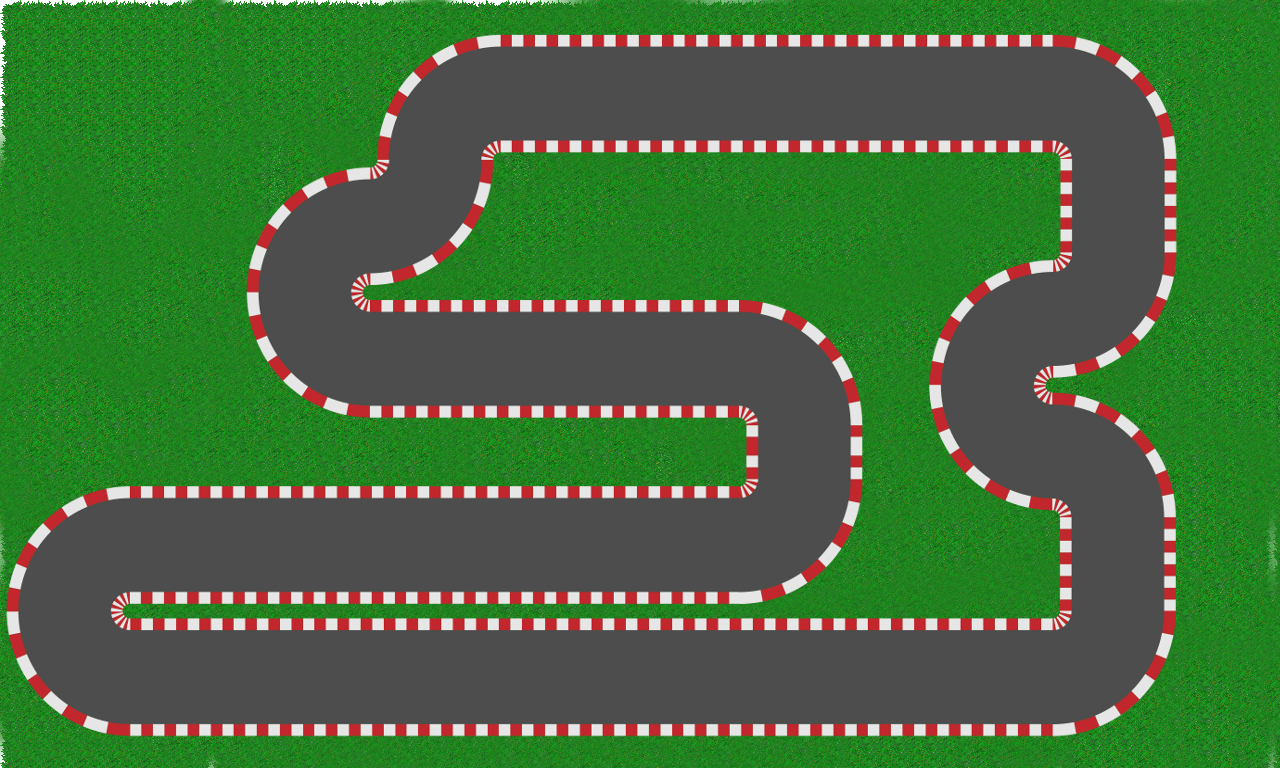
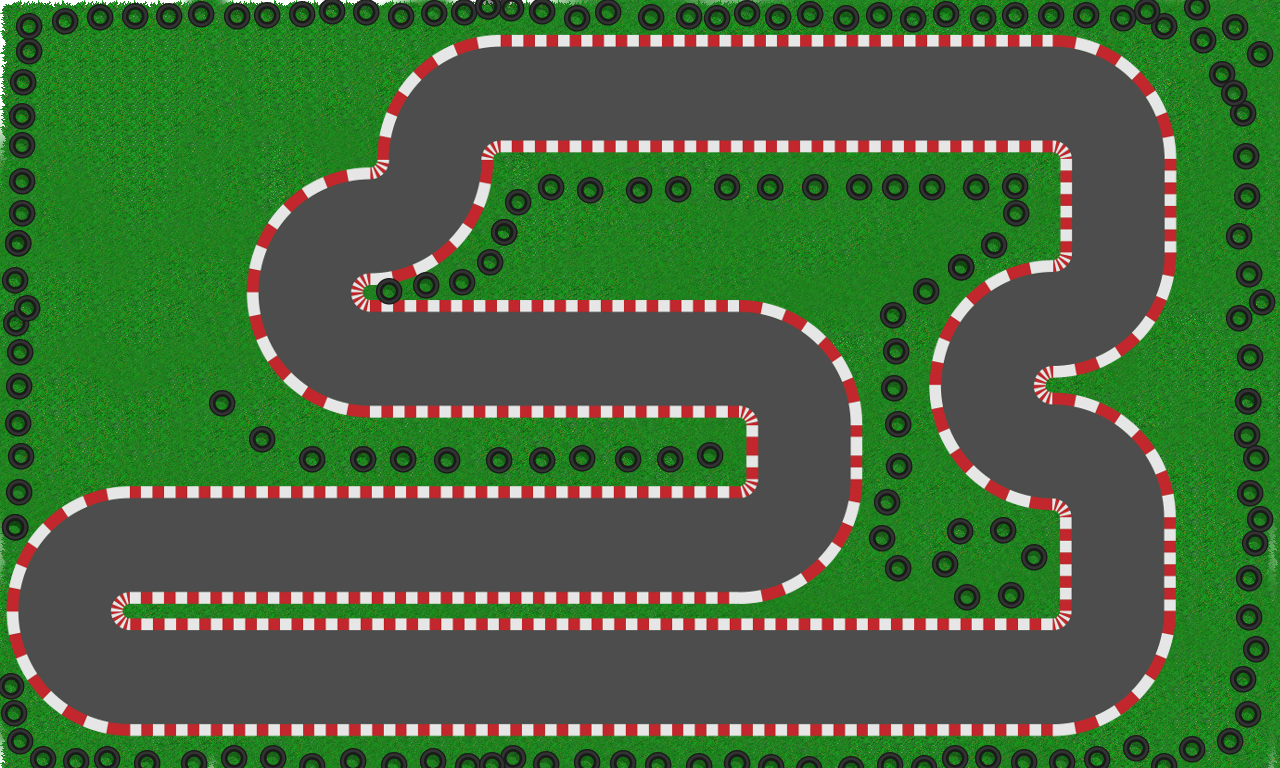
ajout des pneus et des cercles de piste, manque maintenant les rectangles... Peut pas faire les pneus du bas a cause de ma resolution d'ecran. Les cercles de pistes n'ont pas leur propriete de quartier, pour l'instant j'envoie dans un buffer pour le pas faire planter la lecture du fichier

diff --git a/SFML_Vroom/main.cpp b/SFML_Vroom/main.cpp
@@ -67,7 +67,7 @@ int main()
 
 
 	trafficLights lights;
-	piste pisteCourse("mapTestPneus");													//objet Piste
+	piste pisteCourse("mapFinale2");													//objet Piste
 	automobile joueurs[4];
 	
 
@@ -248,7 +248,12 @@ int main()
 			{
 				window.draw(pisteCourse.getCercle(i));
 			}
-		
+			
+			for (int i = 0; i < pisteCourse.getNbPneus(); i++)
+			{
+				window.draw(pisteCourse.getPneu(i));
+			}
+
 			window.draw(ligneArivee);
 			
 
